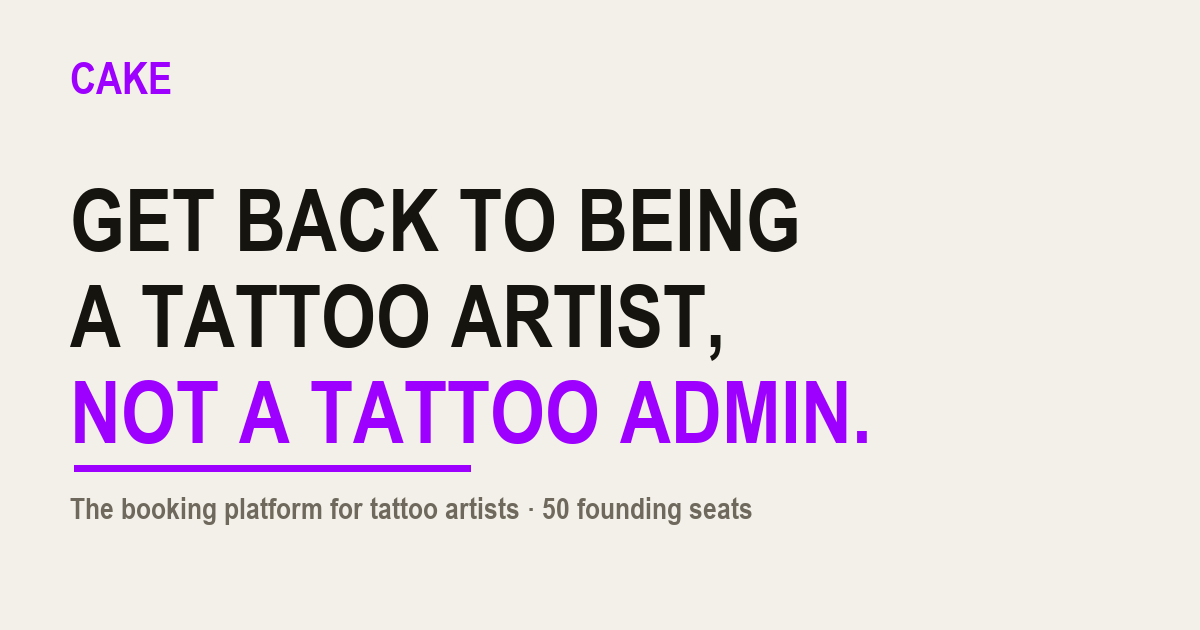
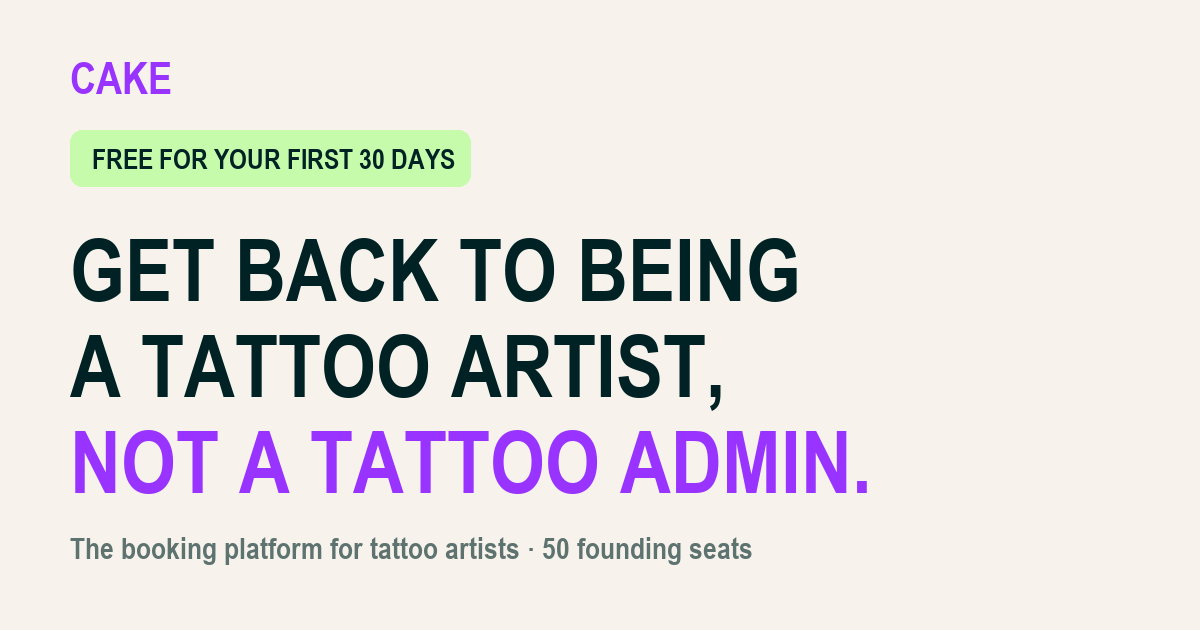
Landing: brand palette applied (cream, deep teal ink, 9933ff purple, leaf and mint greens); OG regenerated

Changed region(s): [[0.0308, 0.181, 0.74, 0.9048], [0.0617, 0.0905, 0.1542, 0.1508]]

diff --git a/waitlist-landing.html b/waitlist-landing.html
@@ -15,11 +15,11 @@
 <link href="https://fonts.googleapis.com/css2?family=Bebas+Neue&family=Inter:wght@400;500;600;700;800&display=swap" rel="stylesheet">
 <style>
 :root{
-  --bg:#F2F0E9; --bg2:#EBE5D7; --card:#FCFAF4; --card2:#F3EEE2;
-  --line:#DBD3C2; --line-soft:#E8E1D1;
-  --ink:#16140F; --ink2:#4A463D; --muted:#6E695C; --faint:#9C9484;
-  --acc:#9D00FF; --acc-wash:rgba(157,0,255,.13); --onacc:#F2F0E9;
-  --shadow:0 12px 32px rgba(33,30,24,.10);
+  --bg:#F7F3EC; --bg2:#EDE7DA; --card:#FFFCF6; --card2:#F1EBDF;
+  --line:#D8D1C0; --line-soft:#E7E1D2;
+  --ink:#002224; --ink2:#33494B; --muted:#5E7370; --faint:#93A29B;
+  --acc:#9933FF; --acc-wash:rgba(153,51,255,.14); --onacc:#F7F3EC; --mint:#01E6AA; --leaf:#C5FBAA;
+  --shadow:0 12px 32px rgba(0,34,36,.10);
   --disp:'Bebas Neue','Oswald',Impact,sans-serif;
   --sans:'Inter',-apple-system,system-ui,sans-serif;
   --ease:cubic-bezier(.16,1,.3,1);
@@ -34,13 +34,13 @@ nav{display:flex;align-items:center;justify-content:space-between;padding:22px 0
 .logo{font-family:var(--disp);font-size:34px;color:var(--acc);letter-spacing:.02em}
 .nav-r{display:flex;gap:18px;align-items:center}
 .nav-r a{text-decoration:none;color:var(--ink2);font-size:14.5px;font-weight:600}
-.nav-btn{background:var(--acc-wash);color:#6C00B8;border-radius:999px;padding:10px 20px;font-size:13px;font-weight:700;letter-spacing:.06em}
+.nav-btn{background:var(--acc-wash);color:#6712CC;border-radius:999px;padding:10px 20px;font-size:13px;font-weight:700;letter-spacing:.06em}
 
 /* hero */
 .hero{display:grid;grid-template-columns:1.05fr .95fr;gap:48px;align-items:center;padding:64px 0 80px}
 h1{font-family:var(--disp);font-size:clamp(42px,5.2vw,72px);line-height:.94;font-weight:400;letter-spacing:.005em}
 h1 .p{color:var(--acc)}
-.free-flag{display:inline-block;background:var(--acc);color:var(--onacc);border-radius:12px;padding:10px 18px;font-family:var(--disp);font-size:21px;letter-spacing:.1em;margin-bottom:22px;transform:rotate(-1.2deg)}
+.free-flag{display:inline-block;background:var(--leaf);color:var(--ink);border-radius:12px;padding:10px 18px;font-family:var(--disp);font-size:21px;letter-spacing:.1em;margin-bottom:22px;transform:rotate(-1.2deg)}
 .hero .under{width:220px;height:16px;margin:18px 0 4px}
 .hero .under path{stroke:var(--acc);stroke-width:5;fill:none;stroke-linecap:round}
 .hero .lead{font-size:19px;color:var(--ink2);margin-top:16px;max-width:52ch}
@@ -62,14 +62,14 @@ h1 .p{color:var(--acc)}
 
 .sticky-cta{display:none}
 @media (max-width:700px){
-  .sticky-cta{display:block;position:fixed;left:0;right:0;bottom:0;z-index:80;padding:12px 16px calc(12px + env(safe-area-inset-bottom));background:var(--card);border-top:1px solid var(--line-soft);box-shadow:0 -8px 24px rgba(33,30,24,.12)}
+  .sticky-cta{display:block;position:fixed;left:0;right:0;bottom:0;z-index:80;padding:12px 16px calc(12px + env(safe-area-inset-bottom));background:var(--card);border-top:1px solid var(--line-soft);box-shadow:0 -8px 24px rgba(0,34,36,.12)}
   .sticky-cta a{display:block;background:var(--acc);color:var(--onacc);border-radius:14px;padding:15px;text-align:center;font-family:var(--disp);font-size:18px;letter-spacing:.08em;text-decoration:none}
   body{padding-bottom:76px}
 }
 
 /* offer block */
 .offer{max-width:560px;margin:34px auto 0;background:var(--card);border:1.5px solid var(--line);border-radius:22px;padding:30px 34px;text-align:left}
-.offer .ofree{background:var(--acc-wash);color:#6C00B8;border-radius:12px;padding:14px 16px;font-size:16.5px;font-weight:800;letter-spacing:.06em;text-align:center;margin-bottom:18px}
+.offer .ofree{background:var(--leaf);color:var(--ink);border-radius:12px;padding:14px 16px;font-size:16.5px;font-weight:800;letter-spacing:.06em;text-align:center;margin-bottom:18px}
 .offer .oh{display:flex;justify-content:space-between;align-items:baseline;gap:12px;flex-wrap:wrap}
 .offer .oh b{font-family:var(--disp);font-size:26px;font-weight:400;letter-spacing:.03em}
 .offer .price{font-family:var(--disp);font-size:26px;color:var(--acc)}
@@ -77,7 +77,7 @@ h1 .p{color:var(--acc)}
 .offer ul{list-style:none;margin-top:14px}
 .offer li{padding:8px 0;border-bottom:1px solid var(--line-soft);font-size:14.5px;color:var(--ink2)}
 .offer li:last-child{border-bottom:none}
-.offer li::before{content:"✓";color:var(--acc);font-weight:800;margin-right:10px}
+.offer li::before{content:"✓";color:#01B583;font-weight:800;margin-right:10px}
 .offer .after{margin-top:12px;font-size:12.5px;color:var(--faint)}
 
 /* floating cards */
@@ -91,7 +91,7 @@ h1 .p{color:var(--acc)}
 .fc .nm{font-family:var(--disp);font-size:19px;line-height:1}
 .fc .hd{font-size:11.5px;color:var(--muted)}
 .fc .meta{font-size:13.5px;color:var(--ink2);margin-top:10px}
-.pill{display:inline-block;background:var(--acc-wash);color:#6C00B8;border-radius:999px;padding:4px 11px;font-size:11px;font-weight:700;letter-spacing:.05em;margin-top:10px}
+.pill{display:inline-block;background:var(--acc-wash);color:#6712CC;border-radius:999px;padding:4px 11px;font-size:11px;font-weight:700;letter-spacing:.05em;margin-top:10px}
 .mini-grid{display:grid;grid-template-columns:repeat(3,1fr);gap:6px;margin-top:12px}
 .mini-grid div{aspect-ratio:1;border-radius:9px;background:var(--card2);border:1px solid var(--line-soft);display:flex;align-items:center;justify-content:center;font-size:20px}
 .fc-btn{background:var(--acc);color:var(--onacc);border-radius:12px;text-align:center;font-family:var(--disp);font-size:15px;letter-spacing:.08em;padding:11px;margin-top:13px}
@@ -112,7 +112,7 @@ h1 .p{color:var(--acc)}
 .section h2{font-family:var(--disp);font-size:clamp(36px,4.6vw,58px);line-height:.94;font-weight:400}
 .section .s-sub{color:var(--ink2);margin-top:12px;max-width:62ch;font-size:17px}
 .wall{display:grid;grid-template-columns:repeat(3,1fr);gap:18px;margin-top:40px}
-.note{background:var(--card);border:1px solid var(--line-soft);border-radius:16px;padding:22px;box-shadow:0 3px 14px rgba(33,30,24,.05);font-size:17px;font-weight:600;line-height:1.45;color:var(--ink)}
+.note{background:var(--card);border:1px solid var(--line-soft);border-radius:16px;padding:22px;box-shadow:0 3px 14px rgba(0,34,36,.05);font-size:17px;font-weight:600;line-height:1.45;color:var(--ink)}
 .note span{display:block;font-size:12px;font-weight:600;color:var(--faint);margin-top:12px}
 .note:nth-child(odd){transform:rotate(-.7deg)}
 .note:nth-child(even){transform:rotate(.7deg)}
@@ -125,7 +125,7 @@ h1 .p{color:var(--acc)}
 .stp h3{font-size:16.5px;font-weight:700;margin-top:10px}
 .stp p{font-size:14px;color:var(--muted);margin-top:6px}
 
-.soon{display:inline-block;background:var(--acc-wash);color:#6C00B8;border-radius:999px;padding:2px 9px;font-size:10.5px;font-weight:800;letter-spacing:.08em;vertical-align:2px;margin-left:4px}
+.soon{display:inline-block;background:var(--acc-wash);color:#6712CC;border-radius:999px;padding:2px 9px;font-size:10.5px;font-weight:800;letter-spacing:.08em;vertical-align:2px;margin-left:4px}
 /* why */
 .why{background:var(--card);border:1px solid var(--line-soft);border-radius:24px;padding:44px 48px;margin-top:26px}
 .why h2{font-family:var(--disp);font-size:clamp(32px,4vw,50px);font-weight:400;line-height:.95}
@@ -143,12 +143,12 @@ h1 .p{color:var(--acc)}
 /* promises */
 .dark{background:var(--ink);color:var(--bg);border-radius:28px;padding:56px;margin-top:20px}
 .dark h2{font-family:var(--disp);font-size:clamp(34px,4.2vw,54px);font-weight:400;line-height:.95}
-.dark .s-sub{color:rgba(242,240,233,.72);margin-top:12px;max-width:60ch}
+.dark .s-sub{color:rgba(247,243,236,.72);margin-top:12px;max-width:60ch}
 .proms{display:grid;grid-template-columns:repeat(2,1fr);gap:14px;margin-top:34px}
-.prom{border:1px solid rgba(242,240,233,.16);border-radius:16px;padding:20px 22px}
+.prom{border:1px solid rgba(247,243,236,.16);border-radius:16px;padding:20px 22px}
 .prom b{font-size:16.5px;display:block}
-.prom p{font-size:14px;color:rgba(242,240,233,.66);margin-top:5px}
-.boring{margin-top:26px;font-size:15px;color:rgba(242,240,233,.85)}
+.prom p{font-size:14px;color:rgba(247,243,236,.66);margin-top:5px}
+.boring{margin-top:26px;font-size:15px;color:rgba(247,243,236,.85)}
 .boring b{color:var(--bg)}
 
 .thanks{background:var(--card);border:1px solid var(--line-soft);border-radius:18px;padding:26px;text-align:center}
@@ -185,7 +185,7 @@ h1 .p{color:var(--acc)}
 .origin .slice{width:64px;height:64px;font-size:19px;border-radius:14px}
 .origin p{font-size:17px;color:var(--ink2);max-width:72ch}
 .owned{display:flex;gap:8px;margin-top:14px;flex-wrap:wrap}
-.owned span{background:var(--acc-wash);color:#6C00B8;border-radius:999px;padding:5px 13px;font-size:11.5px;font-weight:800;letter-spacing:.08em}
+.owned span{background:var(--acc-wash);color:#6712CC;border-radius:999px;padding:5px 13px;font-size:11.5px;font-weight:800;letter-spacing:.08em}
 .origin p b{color:var(--ink)}
 
 footer{padding:44px 0 60px;display:flex;justify-content:space-between;align-items:center;color:var(--faint);font-size:13px}